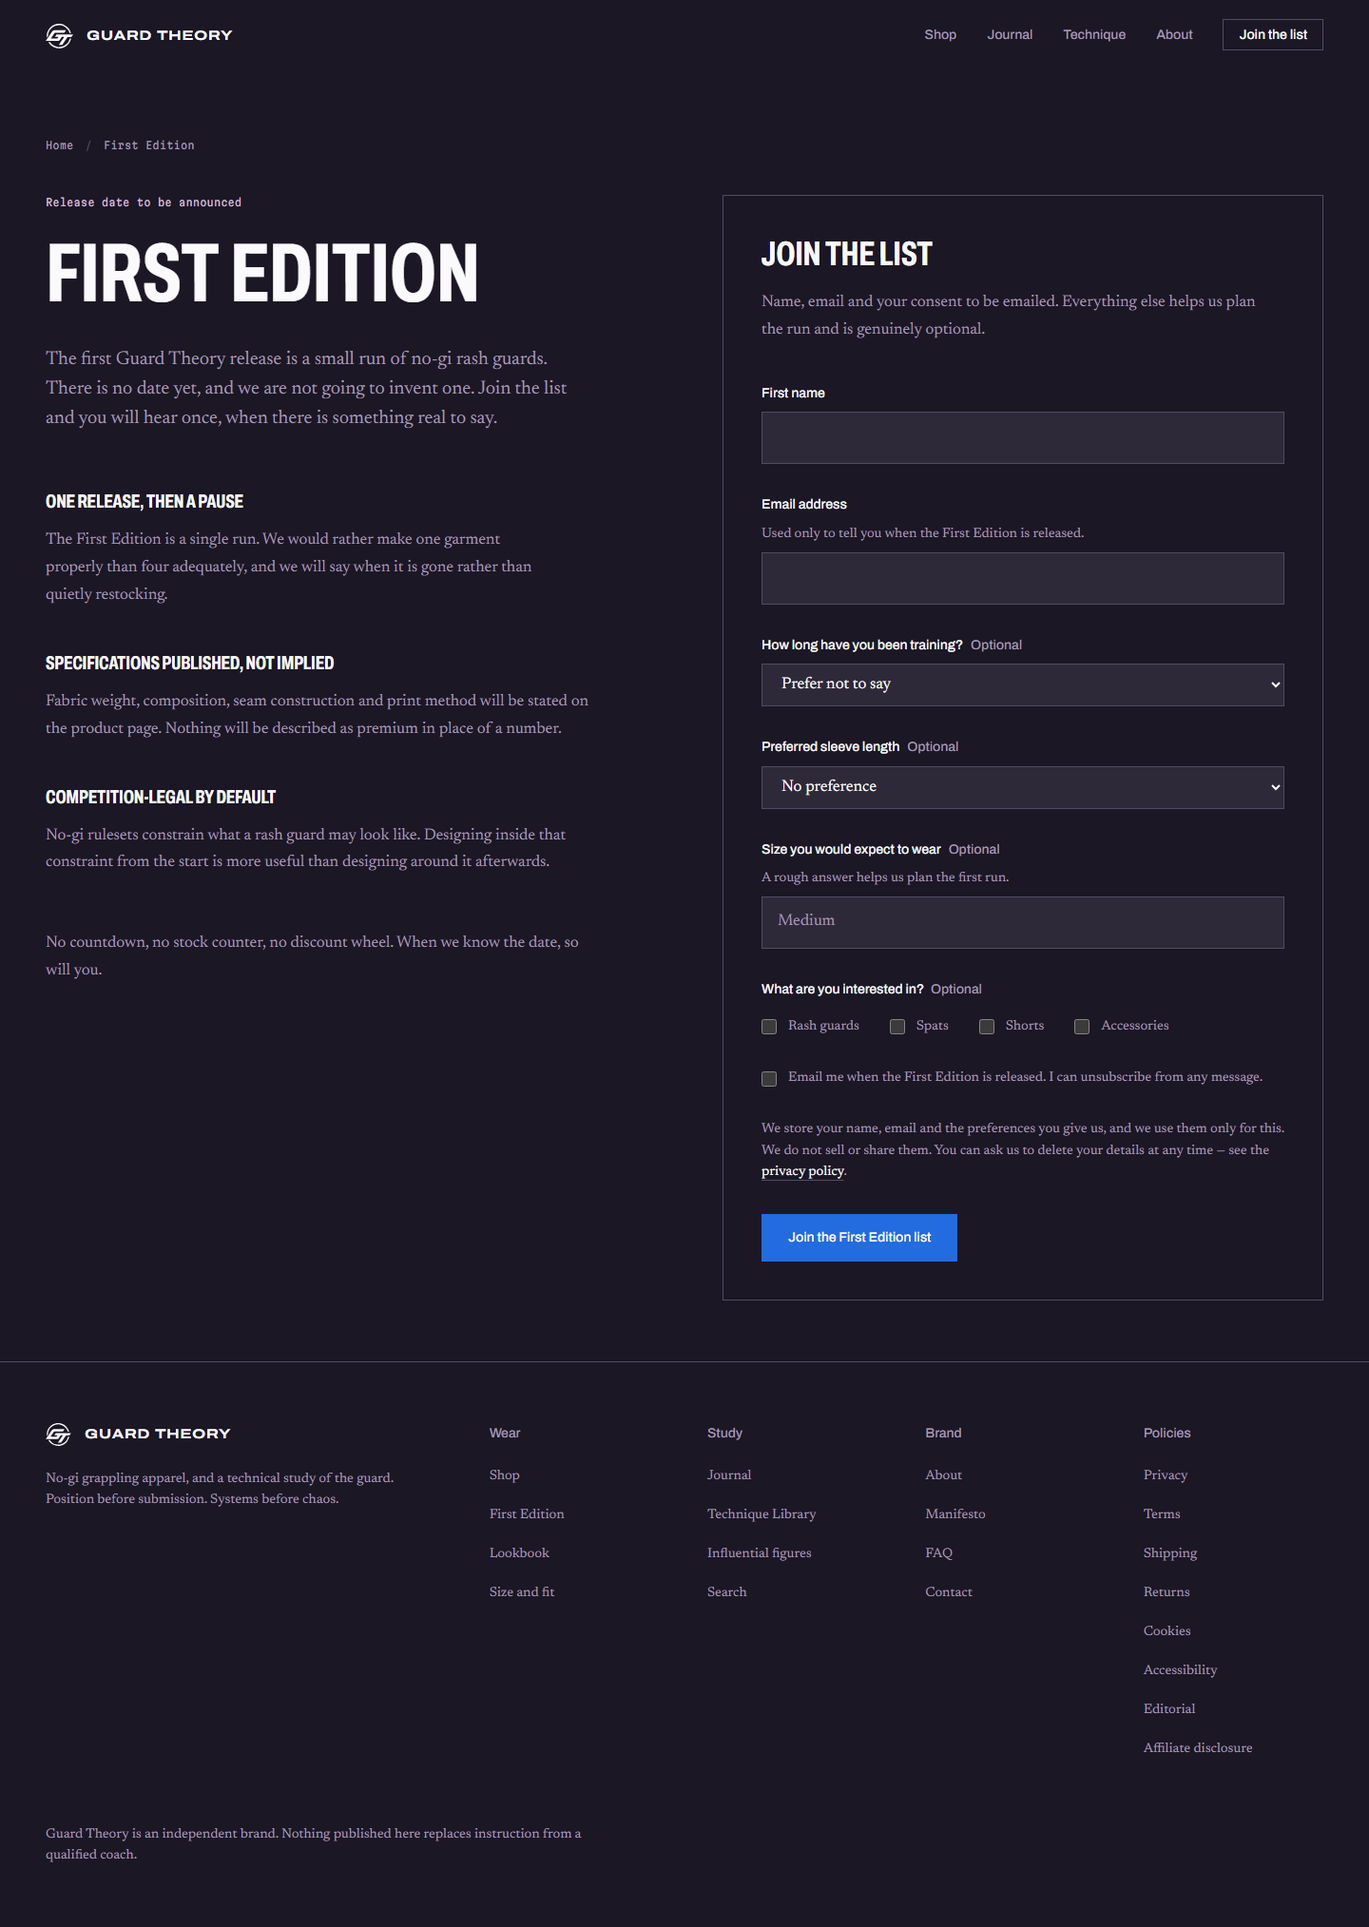
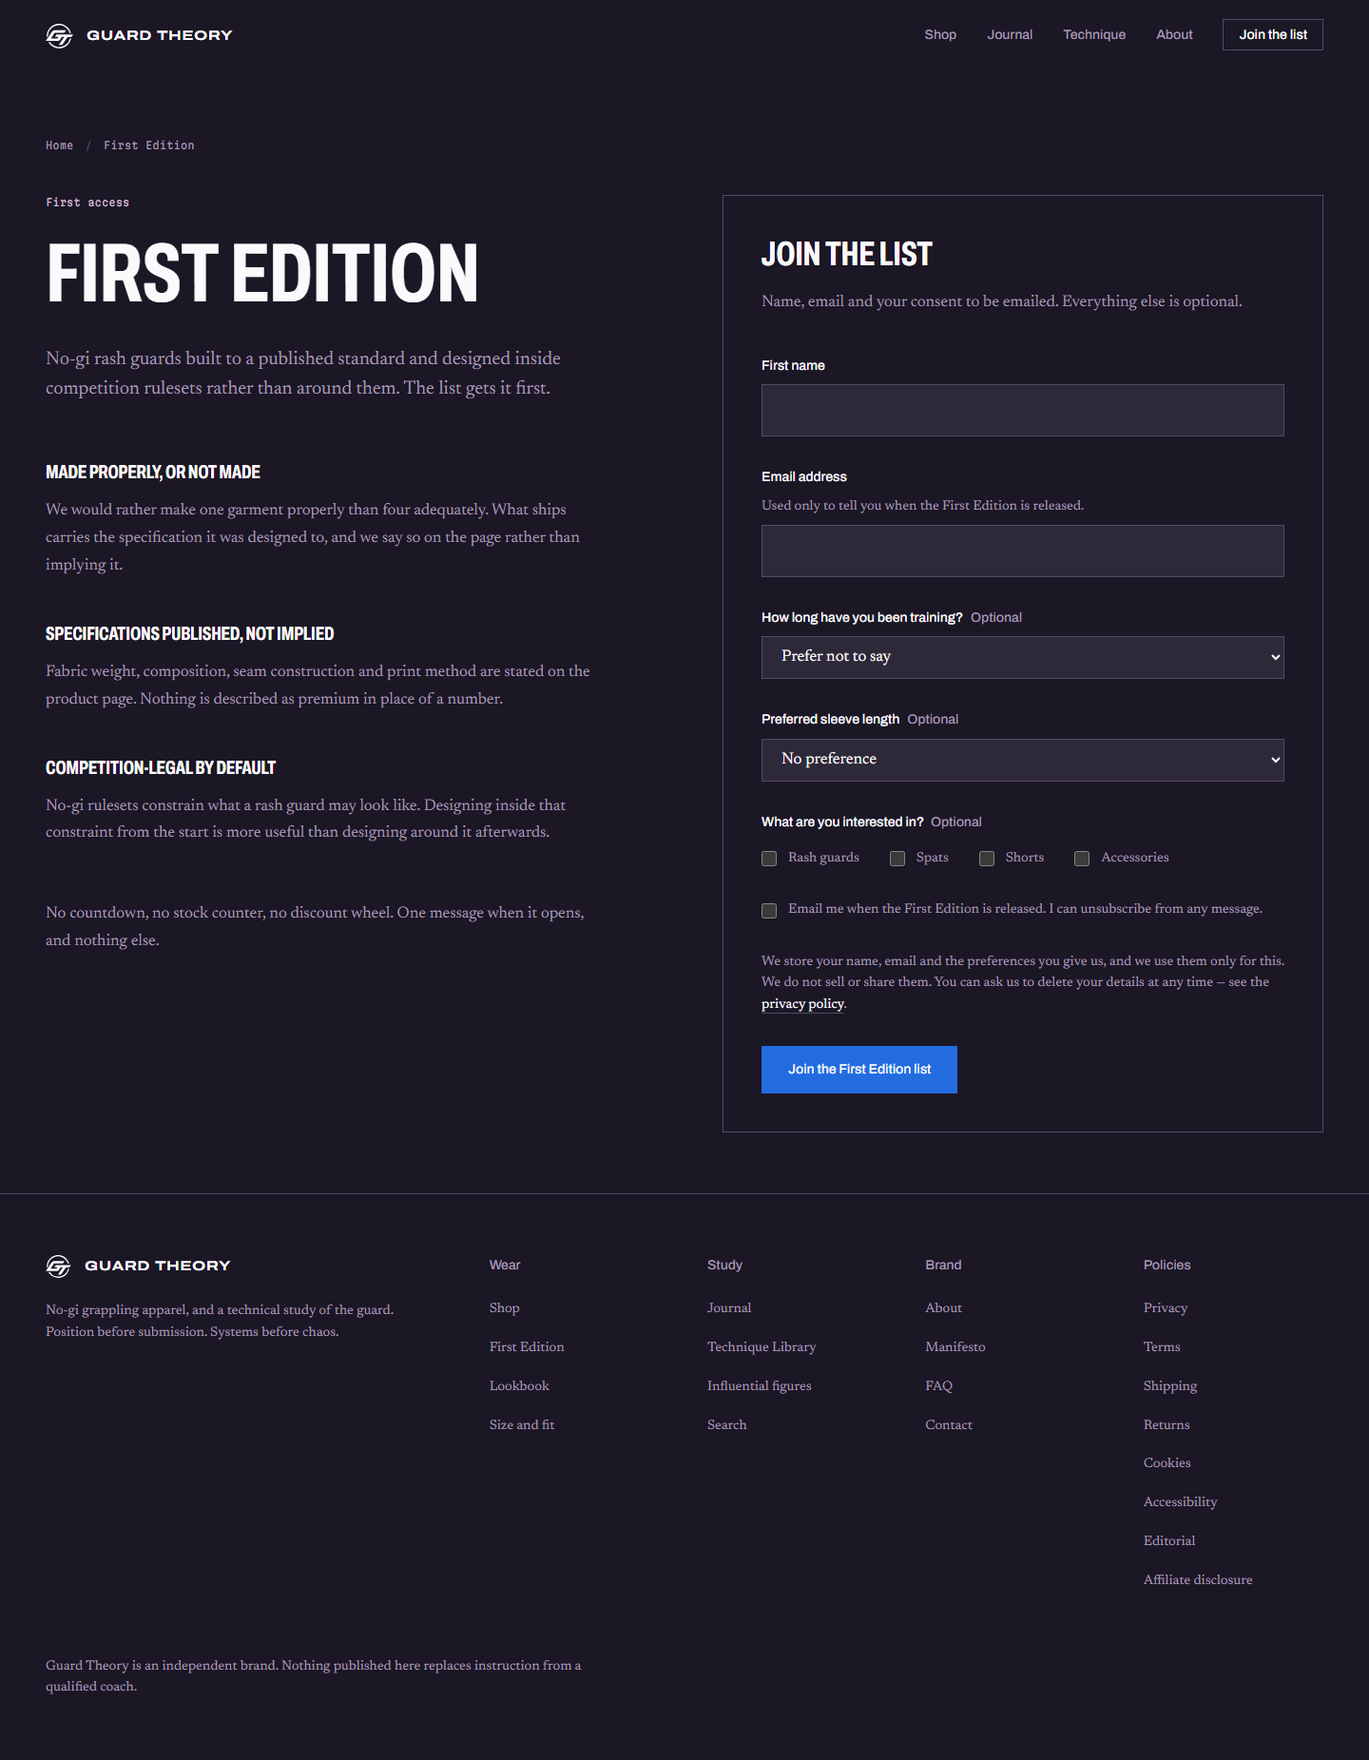
copy: stop narrating what the brand has not done yet
Owner's call, and the right one. Every sentence removed here was true. Read
together they were a brand apologising for existing: a "small run" that was
"one release, then a pause", a page explaining there was no date and that we
were not going to invent one, a promise that "when we know the date, so will
you", and a form asking the reader what size they wear so we could plan
production. Candour is worth something; sounding unready costs more.

Nothing gained a fact it does not have. There is still no date, no price and
no stock anywhere on the site, and nothing claims otherwise. The change is
that absence stopped being a subject.

  Waitlist   Removed "size you would expect to wear" and its "helps us plan
             the first run" hint, end to end — form, validator, types. A brand
             surveying the public on what to produce is telling them it has not
             decided. Sleeve preference and interests stay: those are the
             reader stating a preference, not us asking what to make.

  /first-edition
             "One release, then a pause" -> "Made properly, or not made".
             The eyebrow is "First access", not "Release date to be announced".
             The lede says what the garment is instead of what we do not know.
             "When we know the date, so will you" -> "One message when it
             opens, and nothing else."

  /faq       "There is no date. We are not holding one back — it genuinely has
[…]

diff --git a/src/app/first-edition/page.tsx b/src/app/first-edition/page.tsx
@@ -5,18 +5,24 @@ import { WaitlistForm } from "@/components/waitlist/WaitlistForm";
 
 export const metadata: Metadata = pageMetadata({
   title: "First Edition",
-  description: "The first Guard Theory release: no-gi rash guards built to a stated standard. Release date to be announced. Join the list for first access.",
+  description: "The First Edition: no-gi rash guards built to a published standard, designed inside competition rulesets. Join the list for first access.",
   path: "/first-edition",
 });
 
+/**
+ * These are commitments about how the garment is made and described. They are
+ * deliberately not commitments about scarcity, scheduling or supply — a brand
+ * that leads with how little it is making, and how unsure it is when, is
+ * telling a reader it is not ready. The standard is the story.
+ */
 const COMMITMENTS = [
   {
-    heading: "One release, then a pause",
-    body: "The First Edition is a single run. We would rather make one garment properly than four adequately, and we will say when it is gone rather than quietly restocking.",
+    heading: "Made properly, or not made",
+    body: "We would rather make one garment properly than four adequately. What ships carries the specification it was designed to, and we say so on the page rather than implying it.",
   },
   {
     heading: "Specifications published, not implied",
-    body: "Fabric weight, composition, seam construction and print method will be stated on the product page. Nothing will be described as premium in place of a number.",
+    body: "Fabric weight, composition, seam construction and print method are stated on the product page. Nothing is described as premium in place of a number.",
   },
   {
     heading: "Competition-legal by default",
@@ -33,7 +39,7 @@ export default function FirstEditionPage() {
         <div className="mt-10 grid gap-16 lg:grid-cols-12 lg:gap-20">
           <div className="lg:col-span-6">
             <p className="notation text-2xs text-orchid">
-              Release date to be announced
+              First access
             </p>
 
             <h1 className="display-condensed mt-6 text-4xl text-chalk">
@@ -41,9 +47,9 @@ export default function FirstEditionPage() {
             </h1>
 
             <p className="mt-8 max-w-[36rem] text-lg text-steel">
-              The first Guard Theory release is a small run of no-gi rash guards.
-              There is no date yet, and we are not going to invent one. Join the
-              list and you will hear once, when there is something real to say.
+              No-gi rash guards built to a published standard and designed inside
+              competition rulesets rather than around them. The list gets it
+              first.
             </p>
 
             <ul className="m-0 mt-14 flex list-none flex-col gap-10 p-0">
@@ -58,8 +64,8 @@ export default function FirstEditionPage() {
             </ul>
 
             <p className="mt-14 max-w-[36rem] text-base text-steel">
-              No countdown, no stock counter, no discount wheel. When we know the
-              date, so will you.
+              No countdown, no stock counter, no discount wheel. One message when
+              it opens, and nothing else.
             </p>
           </div>
 
@@ -69,8 +75,8 @@ export default function FirstEditionPage() {
                 Join the list
               </h2>
               <p className="mt-4 mb-10 max-w-[34rem] text-base text-steel">
-                Name, email and your consent to be emailed. Everything else helps
-                us plan the run and is genuinely optional.
+                Name, email and your consent to be emailed. Everything else is
+                optional.
               </p>
 
               <WaitlistForm />

diff --git a/src/components/waitlist/WaitlistForm.tsx b/src/components/waitlist/WaitlistForm.tsx
@@ -18,8 +18,14 @@ import {
  * The one conversion point on the site.
  *
  * Nothing here manufactures urgency: no countdown, no invented stock figure, no
- * "twelve people are viewing this". The reason to join is that the release date
- * is genuinely unknown and this is the only way to hear about it.
+ * "twelve people are viewing this". The reason to join is that the list is told
+ * first, and this is the only way to be on it.
+ *
+ * It also does not ask the reader what to make. There was a "size you would
+ * expect to wear" field here, explained as helping us plan the run; the owner's
+ * call, and the right one, is that a brand surveying the public on what to
+ * produce is telling them it has not decided — the form collects preferences a
+ * customer benefits from stating, and nothing that reads as market research.
  *
  * On error the summary takes focus and links to the offending fields, which is
  * the behaviour a screen-reader user needs and a sighted user benefits from.
@@ -50,7 +56,6 @@ const INTEREST = [
 const FIELD_ORDER: Array<{ key: string; id: string }> = [
   { key: "firstName", id: "wl-first-name" },
   { key: "email", id: "wl-email" },
-  { key: "expectedSize", id: "wl-size" },
   { key: "consent", id: "wl-consent" },
 ];
 
@@ -118,8 +123,8 @@ export function WaitlistForm() {
         </h2>
         <p className="mt-6 max-w-[34rem] text-base text-steel">
           {state.alreadyOnList
-            ? "This address was already registered, so nothing has changed. You will hear from us once, when the First Edition has a release date."
-            : "You will hear from us once, when the First Edition has a release date. No newsletter, no drip sequence. Every message includes a one-click unsubscribe."}
+            ? "This address was already registered, so nothing has changed. You will hear from us once, when the First Edition opens."
+            : "You will hear from us once, when the First Edition opens. No newsletter, no drip sequence. Every message includes a one-click unsubscribe."}
         </p>
       </div>
     );
@@ -176,16 +181,6 @@ export function WaitlistForm() {
           </option>
         ))}
       </SelectField>
-
-      <TextField
-        id="wl-size"
-        name="expectedSize"
-        label="Size you would expect to wear"
-        optional
-        placeholder="Medium"
-        hint="A rough answer helps us plan the first run."
-        error={state.errors.expectedSize}
-      />
 
       <fieldset className="m-0 border-0 p-0">
         <legend className="display-plain mb-4 text-sm text-chalk">

diff --git a/src/app/faq/page.tsx b/src/app/faq/page.tsx
@@ -13,11 +13,11 @@ export const metadata: Metadata = pageMetadata({
 const FAQS = [
   {
     q: "When is the First Edition released?",
-    a: "There is no date. We are not holding one back — it genuinely has not been set, and we would rather say that than post a date we would then move.",
+    a: "The list is told first, and told once. We announce a date when it is fixed, and we do not move a date once it is announced.",
   },
   {
     q: "What will it cost?",
-    a: "Undecided. The price will appear on the product page when it is decided, and not before.",
+    a: "The price is published on the product page. There is no introductory price that quietly becomes the real one, and no discount wheel.",
   },
   {
     q: "Can I pre-order?",
@@ -25,11 +25,11 @@ const FAQS = [
   },
   {
     q: "How often will you email me?",
-    a: "Once, when the First Edition has a release date. There is no newsletter and no drip sequence. Every message carries a one-click unsubscribe.",
+    a: "Once, when the First Edition opens. There is no newsletter and no drip sequence. Every message carries a one-click unsubscribe.",
   },
   {
     q: "Why are there drawings instead of photographs?",
-    a: "Because no garment has been made or photographed yet, and a render presented as a product photo would be a claim we cannot support. The drawings are production flats — the thing a factory is actually given. When photography exists it will sit alongside them.",
+    a: "Because a production flat states how a garment is built and a photograph only shows how it looks. These are the drawings a factory is given — seam construction, sleeve geometry, hem. Photography sits alongside them, never instead of them.",
   },
   {
     q: "How do I know what size I am?",
@@ -37,7 +37,7 @@ const FAQS = [
   },
   {
     q: "Will the rash guards be competition legal?",
-    a: "That is the design constraint we started from rather than one we will work around. Specific ruleset compliance will be stated on the product page once the garments are made, not promised in advance.",
+    a: "That is the design constraint we started from rather than one we work around. Specific ruleset compliance is stated on the product page, not promised in advance.",
   },
   {
     q: "Is the Technique Library a substitute for classes?",

diff --git a/src/lib/waitlist/validate.ts b/src/lib/waitlist/validate.ts
@@ -33,14 +33,12 @@ const EMAIL = /^[^\s@]+@[^\s@]+\.[^\s@]+$/;
 
 const MAX_EMAIL = 254;
 const MAX_NAME = 80;
-const MAX_SIZE = 24;
 
 export type ParsedSignup = {
   email: string;
   firstName: string;
   trainingExperience?: TrainingExperience;
   sleevePreference?: SleevePreference;
-  expectedSize?: string;
   productInterest: ProductInterest[];
   consent: true;
 };
@@ -54,7 +52,7 @@ function readString(data: FormData, key: string): string {
   return typeof raw === "string" ? raw.trim() : "";
 }
 
-/** Strips control characters that have no business in a name or size label. */
+/** Strips control characters that have no business in a name. */
 function sanitise(value: string): string {
   return value.replace(/[\u0000-\u001F\u007F]/g, "");
 }
@@ -64,7 +62,6 @@ export function parseSignup(data: FormData): ParseResult {
 
   const email = sanitise(readString(data, "email"));
   const firstName = sanitise(readString(data, "firstName"));
-  const expectedSizeRaw = sanitise(readString(data, "expectedSize"));
   const sleeveRaw = readString(data, "sleevePreference");
   const experienceRaw = readString(data, "trainingExperience");
   const interestRaw = data
@@ -86,9 +83,6 @@ export function parseSignup(data: FormData): ParseResult {
     errors.firstName = "Enter a shorter first name — 80 characters at most.";
   }
 
-  if (expectedSizeRaw.length > MAX_SIZE) {
-    errors.expectedSize = "Enter a shorter size — 24 characters at most.";
-  }
 
   const sleevePreference = SLEEVE.includes(sleeveRaw as SleevePreference)
     ? (sleeveRaw as SleevePreference)
@@ -118,7 +112,6 @@ export function parseSignup(data: FormData): ParseResult {
       firstName,
       trainingExperience,
       sleevePreference,
-      expectedSize: expectedSizeRaw || undefined,
       productInterest,
       consent: true,
     },

diff --git a/src/content/products/entries/theory-01-long-sleeve.ts b/src/content/products/entries/theory-01-long-sleeve.ts
@@ -6,9 +6,9 @@ export const theory01LongSleeve: Product = {
   kind: "Long sleeve rash guard",
   status: "coming-soon",
   summary:
-    "The First Edition long sleeve, drawn as a technical flat because no garment has been photographed yet and a rendering pretending otherwise would be a lie.",
+    "The First Edition long sleeve, drawn as a production flat. The drawing states how the garment is built, which is the part a photograph cannot show you.",
   description:
-    "Theory 01 is the first garment Guard Theory is making. It is a long sleeve no-gi rash guard designed inside the constraints of competition rulesets rather than around them, which is why it is drawn plainly and described in construction terms rather than adjectives. What you see below is the production flat. When the garment has been made and photographed, photography will be added — it will not replace this drawing, because the drawing is what states how the thing is built.",
+    "Theory 01 is a long sleeve no-gi rash guard designed inside the constraints of competition rulesets rather than around them, which is why it is drawn plainly and described in construction terms rather than adjectives. What you see below is the production flat — the drawing a factory is given. Photography sits alongside it and never in place of it, because the drawing is what states how the thing is built.",
   constructionPoints: [
     {
       code: "01",

diff --git a/src/app/shop/page.tsx b/src/app/shop/page.tsx
@@ -7,7 +7,7 @@ import { PRODUCTS, STATUS_LABEL } from "@/content/products";
 
 export const metadata: Metadata = pageMetadata({
   title: "Shop",
-  description: "What Guard Theory is making, in what order, and why. Nothing is for sale yet — the First Edition has no release date announced.",
+  description: "What Guard Theory makes, and the published specification behind each garment — fabric, weight, seam construction and print method.",
   path: "/shop",
 });
 
@@ -37,7 +37,7 @@ export default function ShopPage() {
           <p className="notation text-2xs text-orchid">First Edition</p>
           <h1 className="display-condensed mt-6 text-4xl text-chalk">Shop</h1>
           <p className="mt-8 text-lg text-steel">
-            Two garments, made in one run. The specification is published in
+            Two garments. The specification is published in
             full on each page — fabric, weight, seam construction, print method
             — because that is what you are actually choosing between.
           </p>

diff --git a/src/components/product/GarmentFlat.tsx b/src/components/product/GarmentFlat.tsx
@@ -8,10 +8,10 @@ import type { ConstructionPoint } from "@/content/products/types";
  * The technical flat.
  *
  * Guard Theory's product imagery is drawn rather than photographed. That is a
- * design decision, not a placeholder: no garment has been made or shot yet, so
- * a render dressed up as a product photograph would be a claim we cannot
- * support. A production flat is what a factory is actually given, it is honest
- * about being a drawing, and it states construction instead of implying quality.
+ * design decision, not a placeholder, and the copy states it as a standard
+ * rather than as an apology: a production flat is what a factory is actually
+ * given, it states construction instead of implying quality, and it says how the
+ * garment is built — which is the part a photograph cannot show.
  *
  * When real photography exists it will sit alongside this, not replace it —
  * the flat is the part that says how the garment is built.

diff --git a/src/content/products/entries/theory-01-short-sleeve.ts b/src/content/products/entries/theory-01-short-sleeve.ts
@@ -8,7 +8,7 @@ export const theory01ShortSleeve: Product = {
   summary:
     "The short sleeve cut of the First Edition. Same construction as the long sleeve, drawn as a production flat.",
   description:
-    "The short sleeve is the same garment with the sleeve terminated above the elbow. It exists because sleeve length is a genuine preference rather than a tier — neither version is the better one, and the waitlist asks which you would want so the first run can be split sensibly. Construction is shared with the long sleeve, so anything stated on that page applies here.",
+    "The short sleeve is the same garment with the sleeve terminated above the elbow. It exists because sleeve length is a genuine preference rather than a tier — neither version is the better one. Construction is shared with the long sleeve, so anything stated on that page applies here.",
   constructionPoints: [
     {
       code: "01",

diff --git a/src/app/product-unavailable/page.tsx b/src/app/product-unavailable/page.tsx
@@ -29,11 +29,11 @@ export default function ProductUnavailablePage() {
       secondary={{ href: "/shop", label: "See what else is being made" }}
     >
       <p className="text-lg text-steel">
-        This garment was made in a single run and that run is gone.
+        This garment is not currently available.
       </p>
       <p className="text-base text-steel">
-        We are not going to quietly restock it and call it a new release. If it
-        is made again, it will say so, and the list is how you will hear.
+        We do not quietly restock and call it a new release. When it returns, the
+        page will say so, and the list hears first.
       </p>
     </UtilityPage>
   );

diff --git a/src/app/email-confirmed/page.tsx b/src/app/email-confirmed/page.tsx
@@ -25,7 +25,7 @@ export default function EmailConfirmedPage() {
         That address is confirmed and you are on the First Edition list.
       </p>
       <p className="text-base text-steel">
-        You will hear from us once, when the First Edition has a release date.
+        You will hear from us once, when the First Edition opens.
         There is no newsletter and no drip sequence, and every message carries a
         one-click unsubscribe.
       </p>

diff --git a/src/app/lookbook/page.tsx b/src/app/lookbook/page.tsx
@@ -7,7 +7,7 @@ import { PRODUCTS } from "@/content/products";
 
 export const metadata: Metadata = pageMetadata({
   title: "Lookbook",
-  description: "The First Edition as drawn: production flats for each garment, and what the photography will be when it exists.",
+  description: "The First Edition as drawn: a production flat for each garment, to the standard the factory is handed and the measurements come from.",
   path: "/lookbook",
 });
 

diff --git a/src/app/shop/[slug]/page.tsx b/src/app/shop/[slug]/page.tsx
@@ -104,7 +104,7 @@ export default async function ProductPage({ params }: Params) {
 
             <div className="mt-10 border border-steel-dim p-6">
               <p className="notation text-2xs text-orchid">
-                First Edition — a single run
+                First Edition
               </p>
               <p className="mt-4 text-base text-steel">
                 Join the list and you will hear the moment it is available. One
